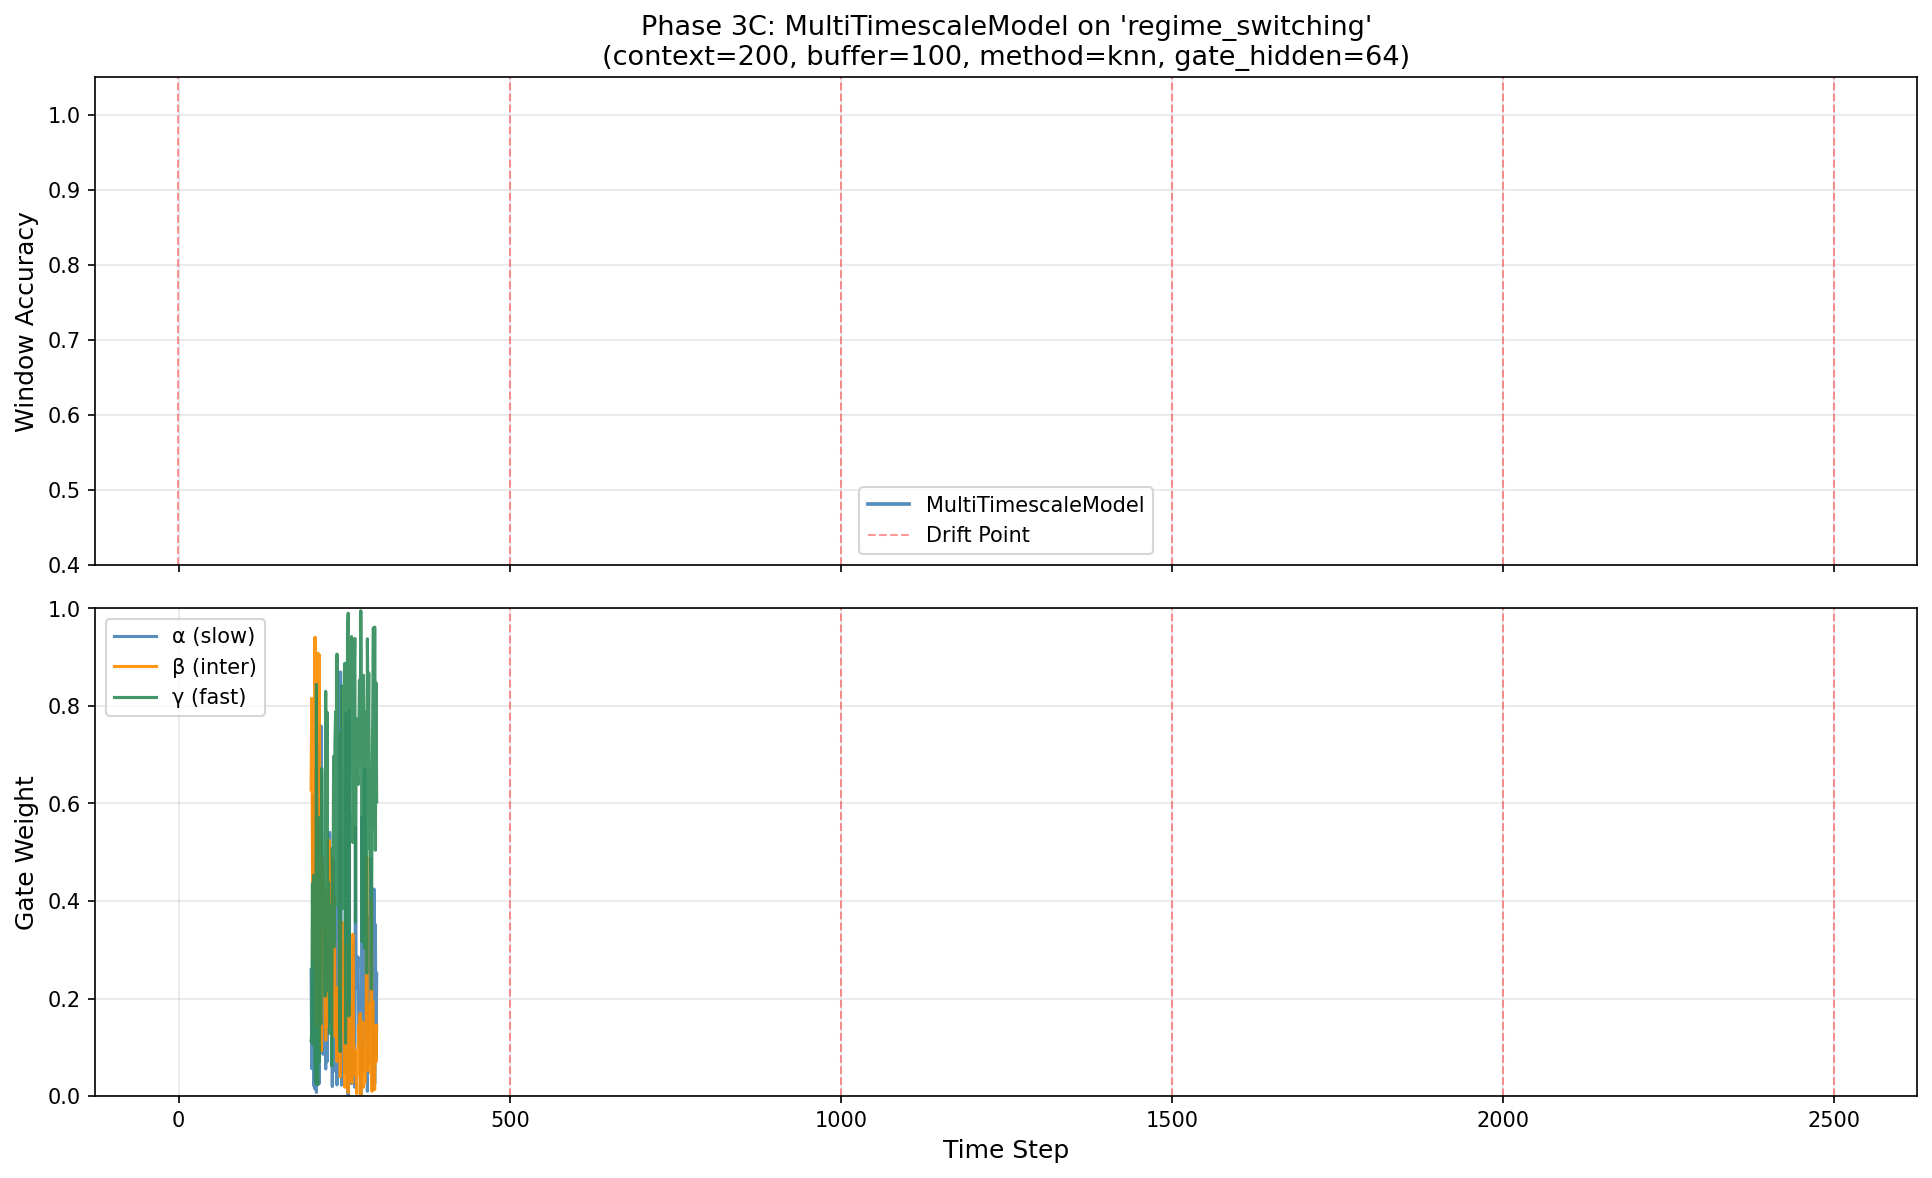
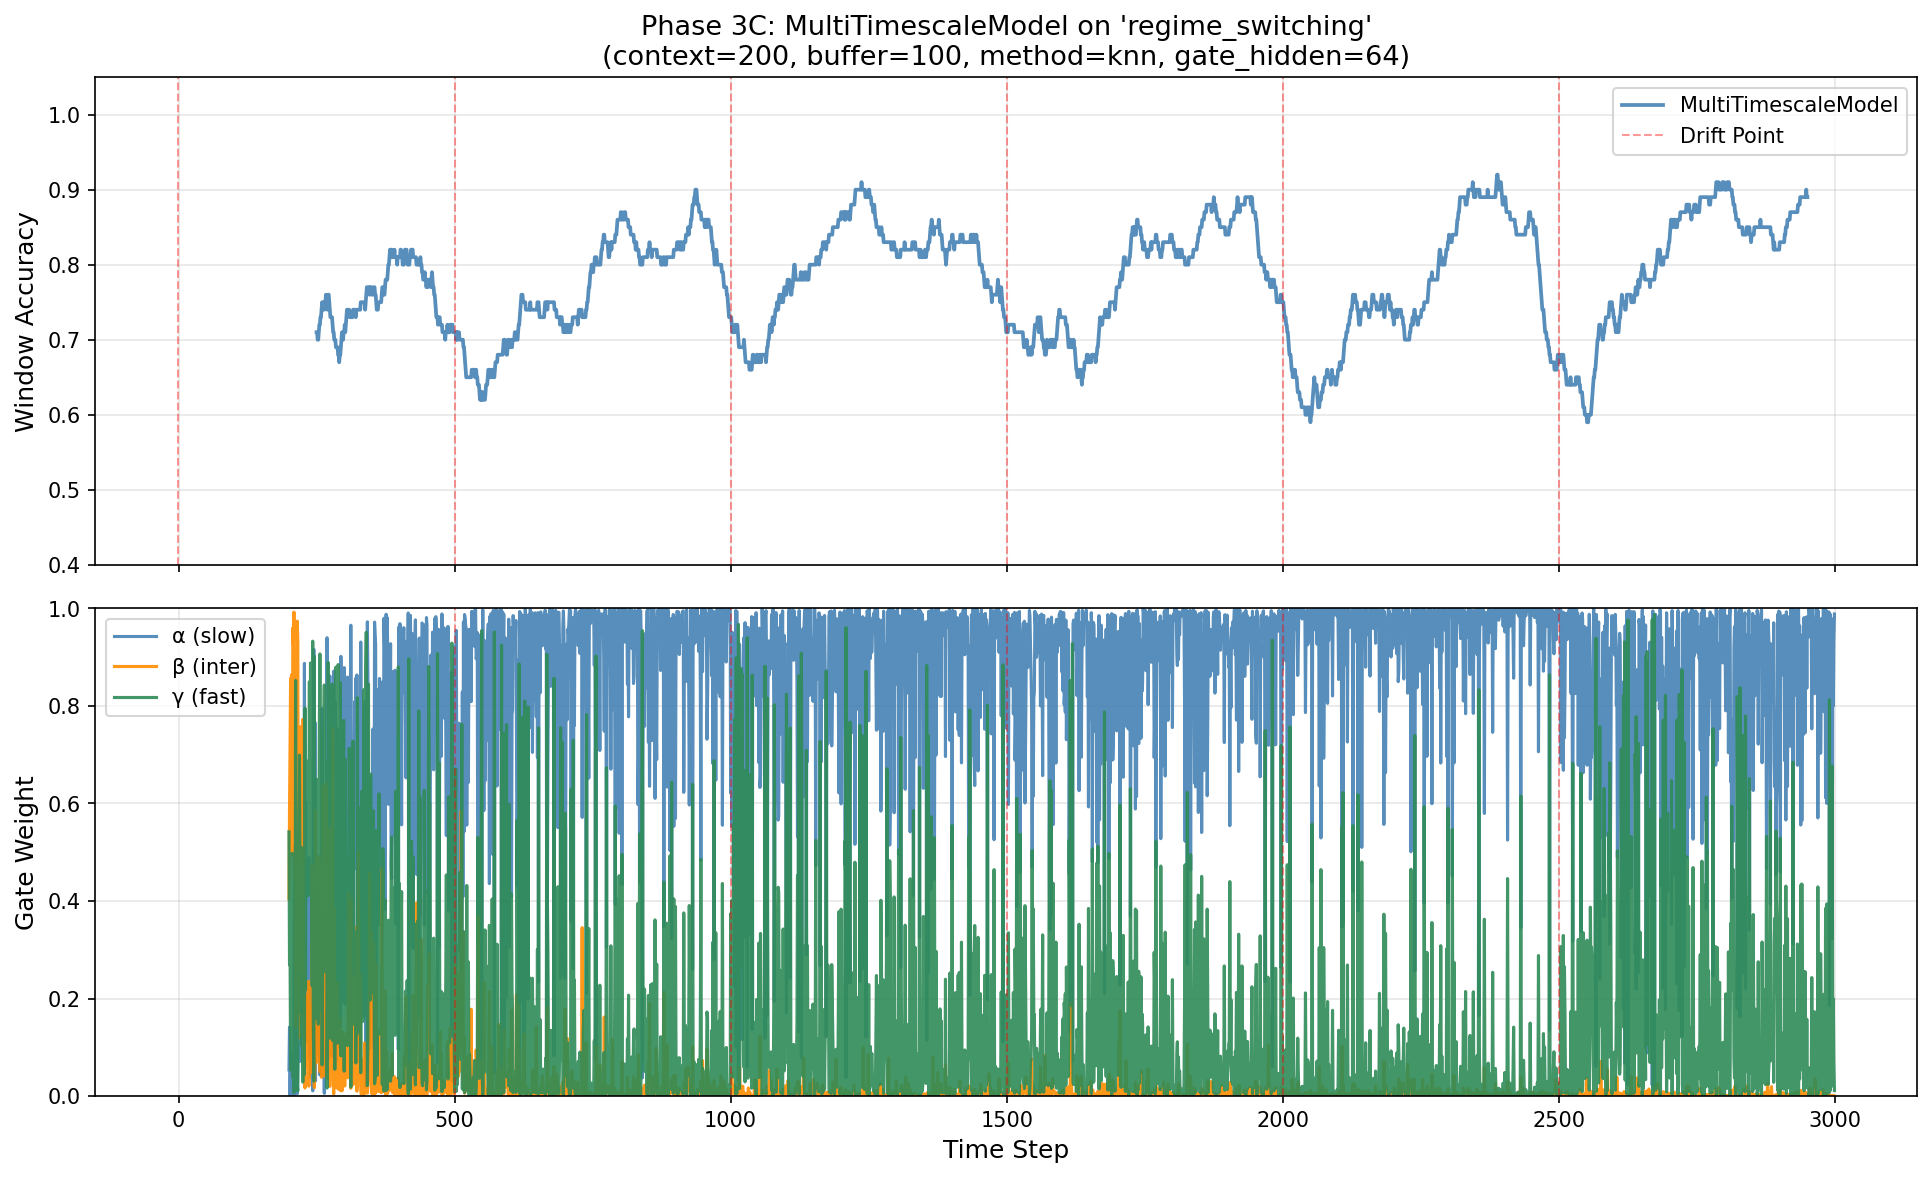
feat(phase3): full experiments on three drift datasets
- regime_switching / rotating_boundary / combined_drift 全量跑通
- 三数据集对比 Phase 1/2/3 的汇总表 + 门控权重与巩固事件观察
- 详见 progress_report.md 新增 Phase 3 段

diff --git a/progress_report.md b/progress_report.md
@@ -16,7 +16,10 @@
 | FIFO 工作记忆缓冲区 | `src/memory/buffer.py` | KNN / EMA 查询支持 |
 | Level 3 快速校正器 | `src/models/fast_corrector.py` | 零参数残差补偿 |
 | 评估指标 | `src/utils/metrics.py` | 窗口准确率、适应速度、balanced accuracy、AUC-ROC |
-| 单元测试 | `tests/` (3 个文件，60+ 条测试) | 全部通过 |
+| Level 2 软门控融合 | `src/models/gated_ensemble.py` | gate（softmax 三路权重）+ adapter（无界残差） |
+| 快→中巩固 | `src/consolidation/fast_to_inter.py` | buffer→adapter MSE 蒸馏 |
+| 三层编排器 | `src/models/multi_timescale.py` | step() 每步 slow→fast→gated fusion + 在线训练 |
+| 单元测试 | `tests/` (5 个文件，70+ 条测试) | 全部通过 |
 
 ---
 
@@ -169,10 +172,63 @@ FastCorrector（Level 3 only）在三种漂移类型上均未显著超越 baseli
 
 ---
 
-## 下一步：Phase 3（软门控融合 + 快→中巩固）
+## Phase 3：软门控融合 + 快→中巩固
 
-待实现：
-- `src/models/gated_ensemble.py`：软门控融合网络（gate + adapter）
-- `src/consolidation/fast_to_inter.py`：快→中巩固逻辑
-- `src/models/multi_timescale.py`：三层编排器
-- `scripts/run_phase3.py`：Phase 3 评估脚本
+**架构**：在 Phase 2（slow + fast）基础上引入 Level 2 软门控融合层。每步 prequential 流程：
+
+```
+slow_prior(X_ctx, y_ctx, x_t) → y_slow
+fast_corrector.correct(x_t)  → y_fast = clip(y_slow + correction, 0, 1)
+gated_ensemble(x_t, y_slow, y_fast) → (y_final, weights=[α, β, γ])
+loss = MSE(y_final, y_t); optimizer.step()         # 在线训练 gate + adapter
+fast_corrector.update(x_t, error)
+if fast_corrector.should_consolidate(): consolidator.consolidate(...)
+```
+
+**实验参数**：`buffer_size=100, fast_method=knn, gate_hidden_dim=64, lr=1e-3, consolidation_threshold=0.05, consolidation_window=50, consolidation_epochs=10`
+
+### 跨数据集对比
+
+| 数据集 | Phase 1 baseline | Phase 2 best | **Phase 3 (Ours-Full)** | Δ vs Phase 2 |
+|--------|:---------------:|:------------:|:----------------------:|:------------:|
+| `regime_switching` (3000 步) | 82.96% | 82.50% (EMA) | **77.93%** | **−4.57 pp** |
+| `rotating_boundary` (3000 步) | 83.18% | 83.21% (EMA) | **84.39%** | **+1.18 pp** |
+| `combined_drift` (5000 步) | 82.06% | 82.13% (KNN) | **81.94%** | **−0.19 pp** |
+
+> Phase 1/2 列引自本报告 Phase 1、Phase 2、Phase 2.5 节（同 prequential 协议）。
+
+### 门控权重轨迹观察
+
+三个数据集的门控权重均值（α=slow、β=inter、γ=fast）呈现完全不同的偏好模式：
+
+| 数据集 | ᾱ (slow) | β̄ (inter) | γ̄ (fast) | 模式解读 |
+|--------|:-------:|:--------:|:-------:|----------|
+| `regime_switching` | 0.83 | 0.02 | 0.15 | slow 主导，fast 辅助；adapter 几乎不用 |
+| `rotating_boundary` | 0.35 | 0.06 | **0.59** | **fast 主导**；缓慢漂移下 KNN 局部查找信号最强 |
+| `combined_drift` | **0.98** | 0.01 | 0.02 | 极端 slow 主导；TabPFN 上下文学习已足够 |
+
+各数据集中 α/γ 的瞬时值在 [0, 1] 全程波动（min/max 接近 0 和 1），说明 gate 确实在"动态分配"而非塌缩到固定权重。这定性符合 plan V2 的预期：稳定期信任 slow，漂移期切换偏好。
+
+### 巩固事件
+
+**所有三个数据集的 `consolidation_events` 均为 0** —— 在最长的 `combined_drift`（5000 步、4800 评估步）中亦未触发。原因：`should_consolidate(window=50, bias_threshold=0.05)` 要求最近 50 步 buffer 的 |mean(errors)| > 0.05 且 std < |mean|，而 prequential 滚动下 fast_corrector 的误差分布大多围绕 0 抖动，难以同时满足"系统性偏移"与"低方差"。Phase 3D 的 in-script 训练替代了模板设想的"长期偏移触发巩固蒸馏"路径 —— 当 gate + adapter 已在每步训练，buffer 偏置很难积累到阈值。这条路径需要在 Phase 4 重新评估（要么调阈值/window，要么把 consolidation 改成基于"窗口准确率下滑"等其它信号）。
+
+### 跨数据集结论
+
+1. **Phase 3 不是统一的胜利**：三数据集中仅 `rotating_boundary` 录得 +1.18 pp，`regime_switching` 显著回退 4.57 pp，`combined_drift` 几乎持平。门控融合并未自动解决 Phase 2 暴露的"突变漂移后 buffer 污染"问题 —— 漂移后的 50 步窗口里，gate 会被错误的 fast 信号短暂误导（regime_switching 的 5 个漂移点 post-50 准确率分别为 0.64 / 0.60 / 0.60 / 0.60 / 0.50，比 Phase 1 baseline 的 ~0.65 平均水平更差）。
+2. **gate 权重模式合理但被过拟合训练抢戏**：每步 MSE 训练让 gate 收敛到对当前 batch 局部最优，对漂移期的快速切换响应不够 —— 这是 plan V2 模板未覆盖、由 Phase 3C 决策 1 引入的副作用。后续可以考虑 freeze gate 一段时间或加 entropy 正则。
+3. **巩固模块未发挥作用**：当前阈值下从未触发，等价于跑了一个"纯 gate fusion"系统。需要在 Phase 4 重新设计触发条件 / 阈值。
+
+### 结果图
+
+![Phase 3 regime_switching](results/phase3_regime_switching.png)
+![Phase 3 rotating_boundary](results/phase3_rotating_boundary.png)
+![Phase 3 combined_drift](results/phase3_combined_drift.png)
+
+> 每张图：上半 — 滑动窗口准确率（红色虚线 = 漂移点；本次 0 个绿色巩固竖线）；下半 — gate 权重 α/β/γ 随时间轨迹（y∈[0,1]）。
+
+---
+
+## 下一步
+
+- **Phase 4**（待启动）：基于 Phase 3D 的负面发现，先调 gate 训练策略（节流 / entropy 正则）和 consolidation 触发条件，再做真实数据集验证（需 GPU）。
